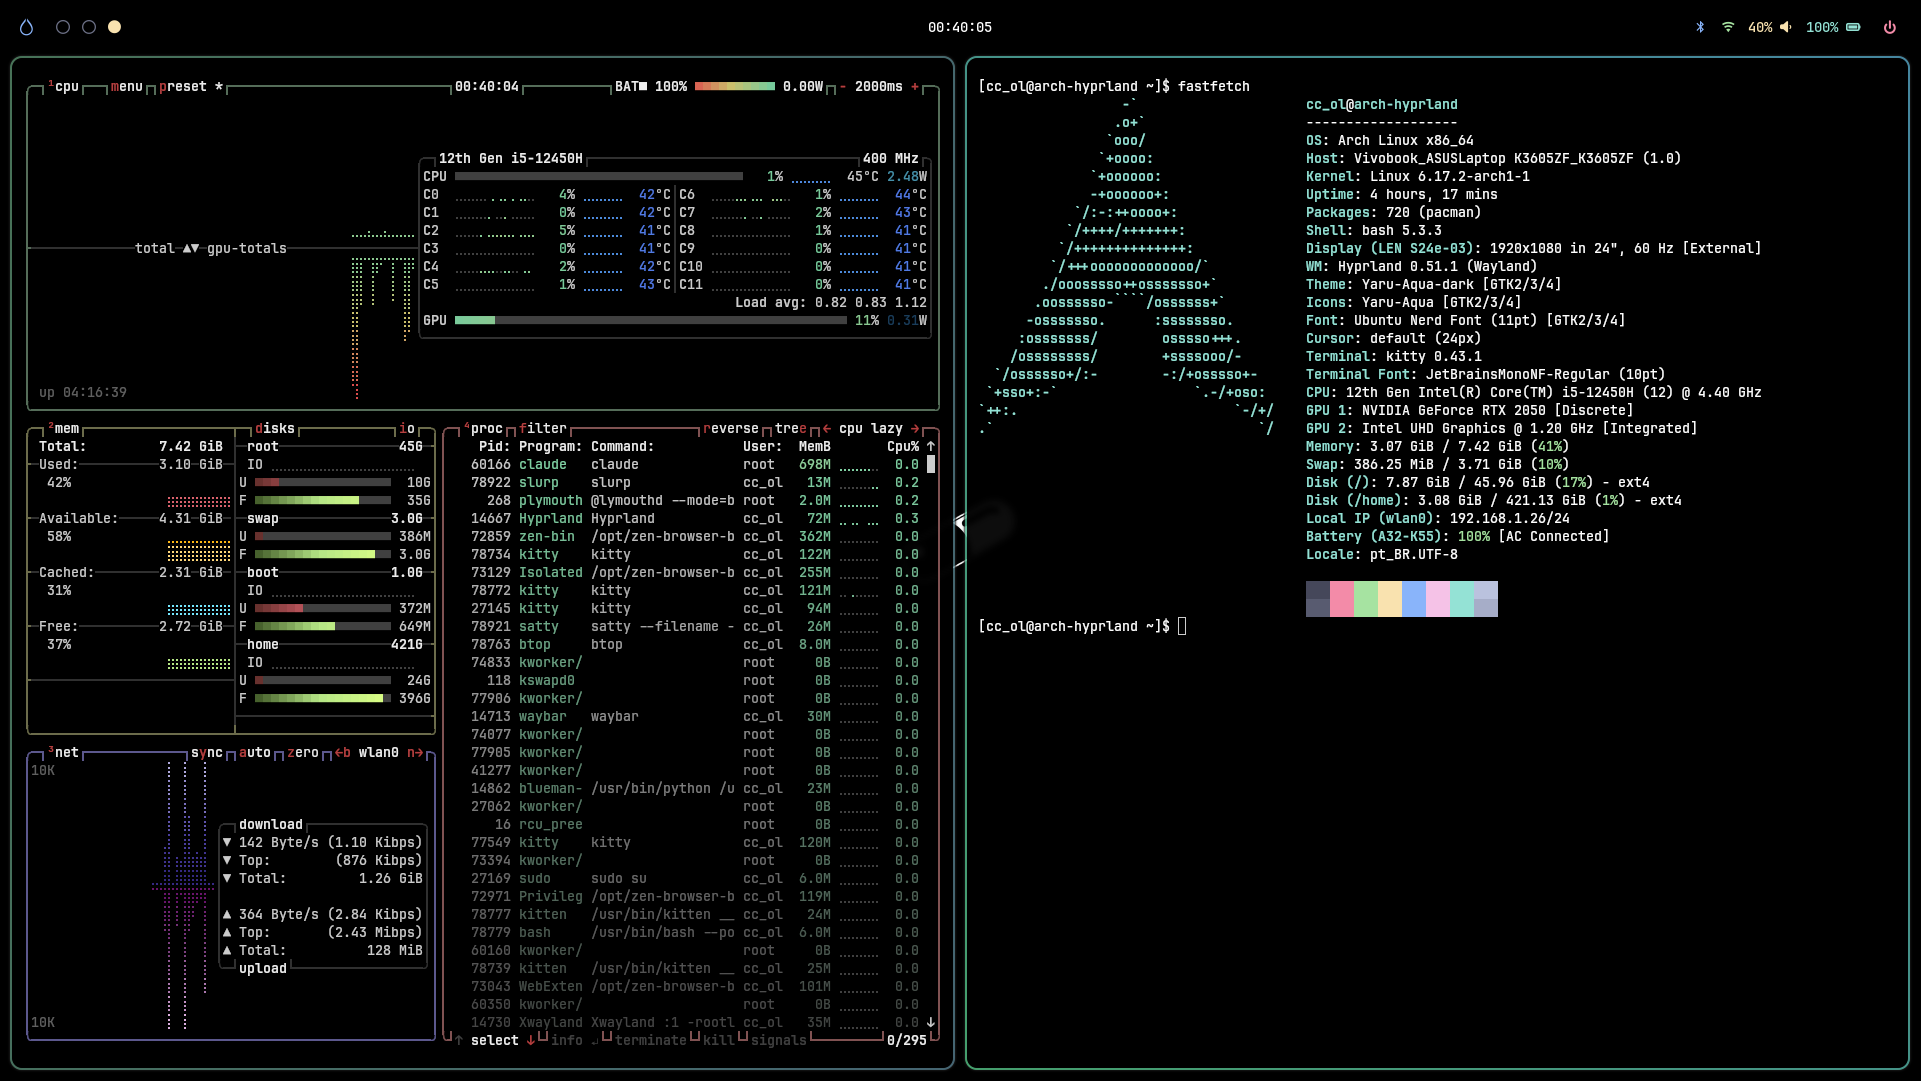
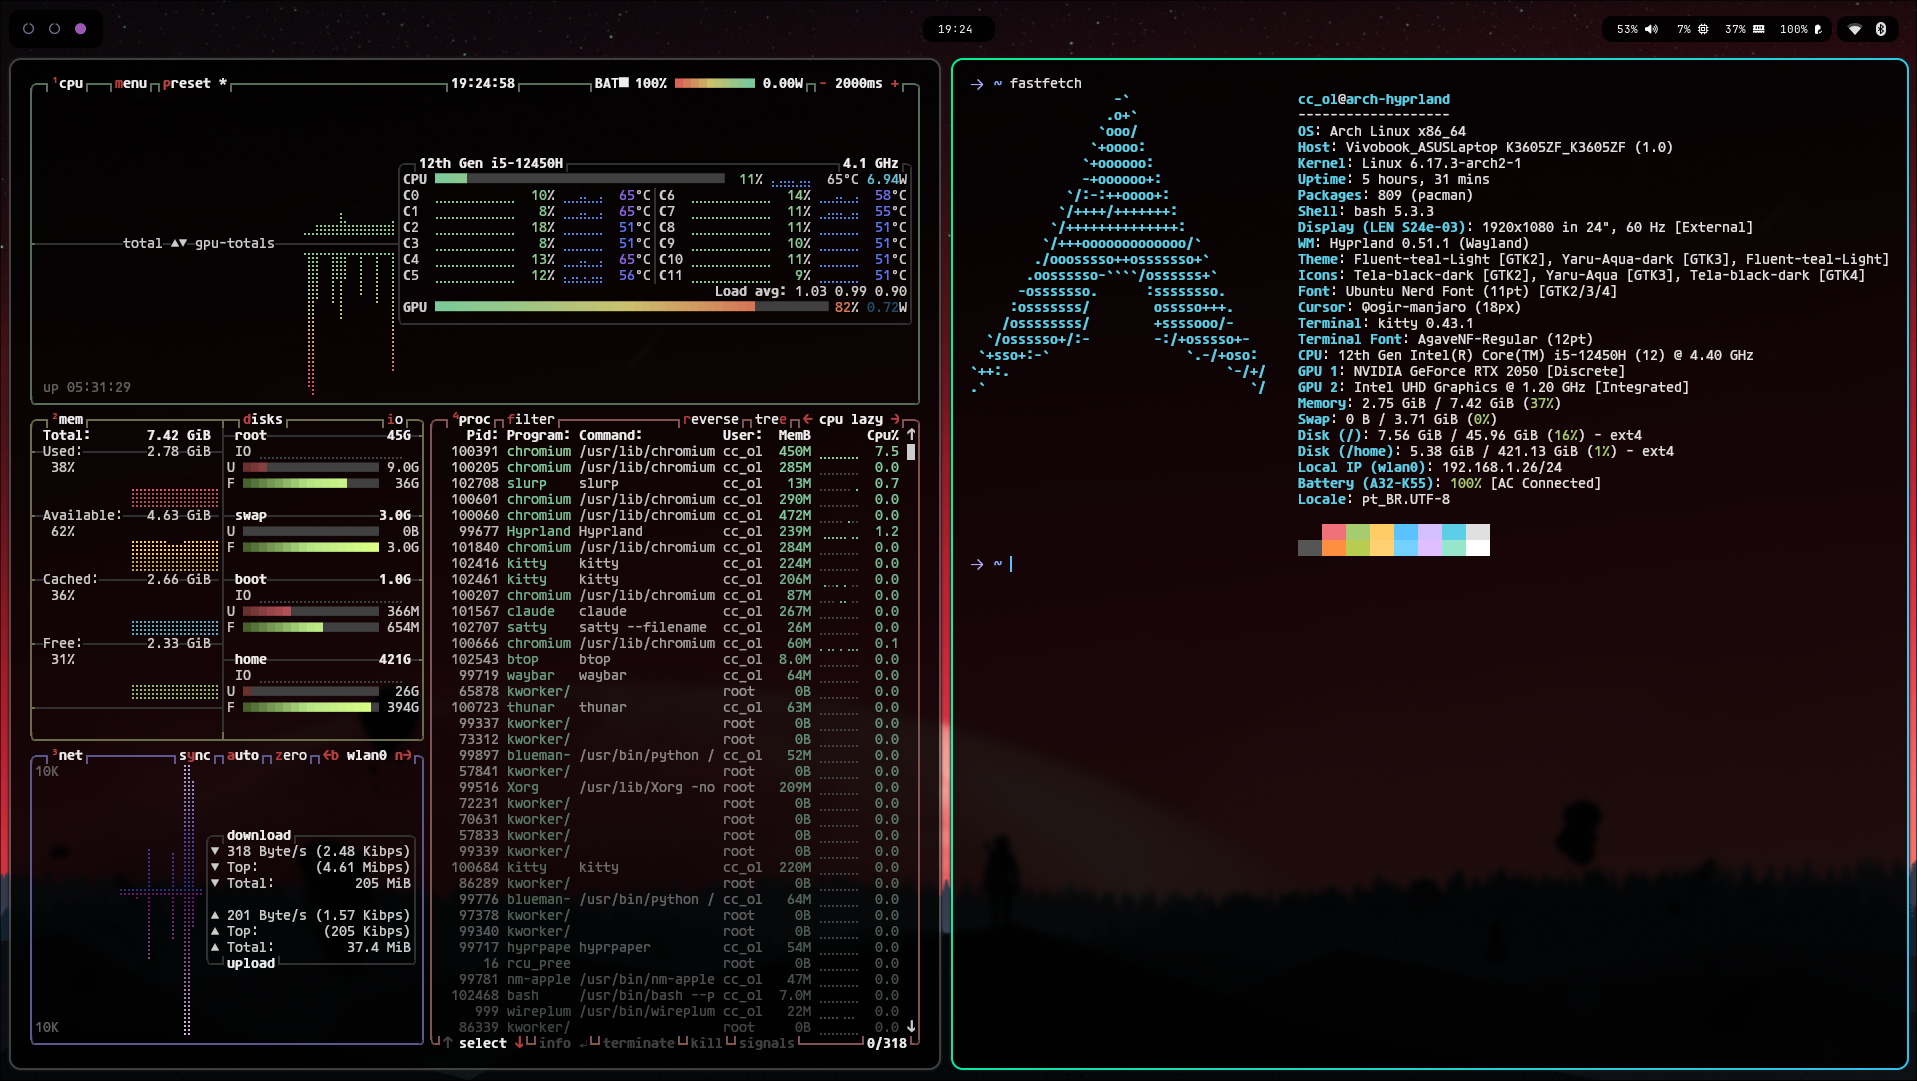
update: desktop imagens and readme

diff --git a/README.md b/README.md
@@ -15,6 +15,9 @@ Custom Hyprland Wayland compositor configuration for Arch Linux.
 ![Desktop with Wofi](screenshots/desktop-wofi.png)
 *Wofi launcher and file manager*
 
+![Desktop Extra](screenshots/desktop-extra.png)
+*Additional desktop view*
+
 ## Components
 
 This repository contains configurations for:
